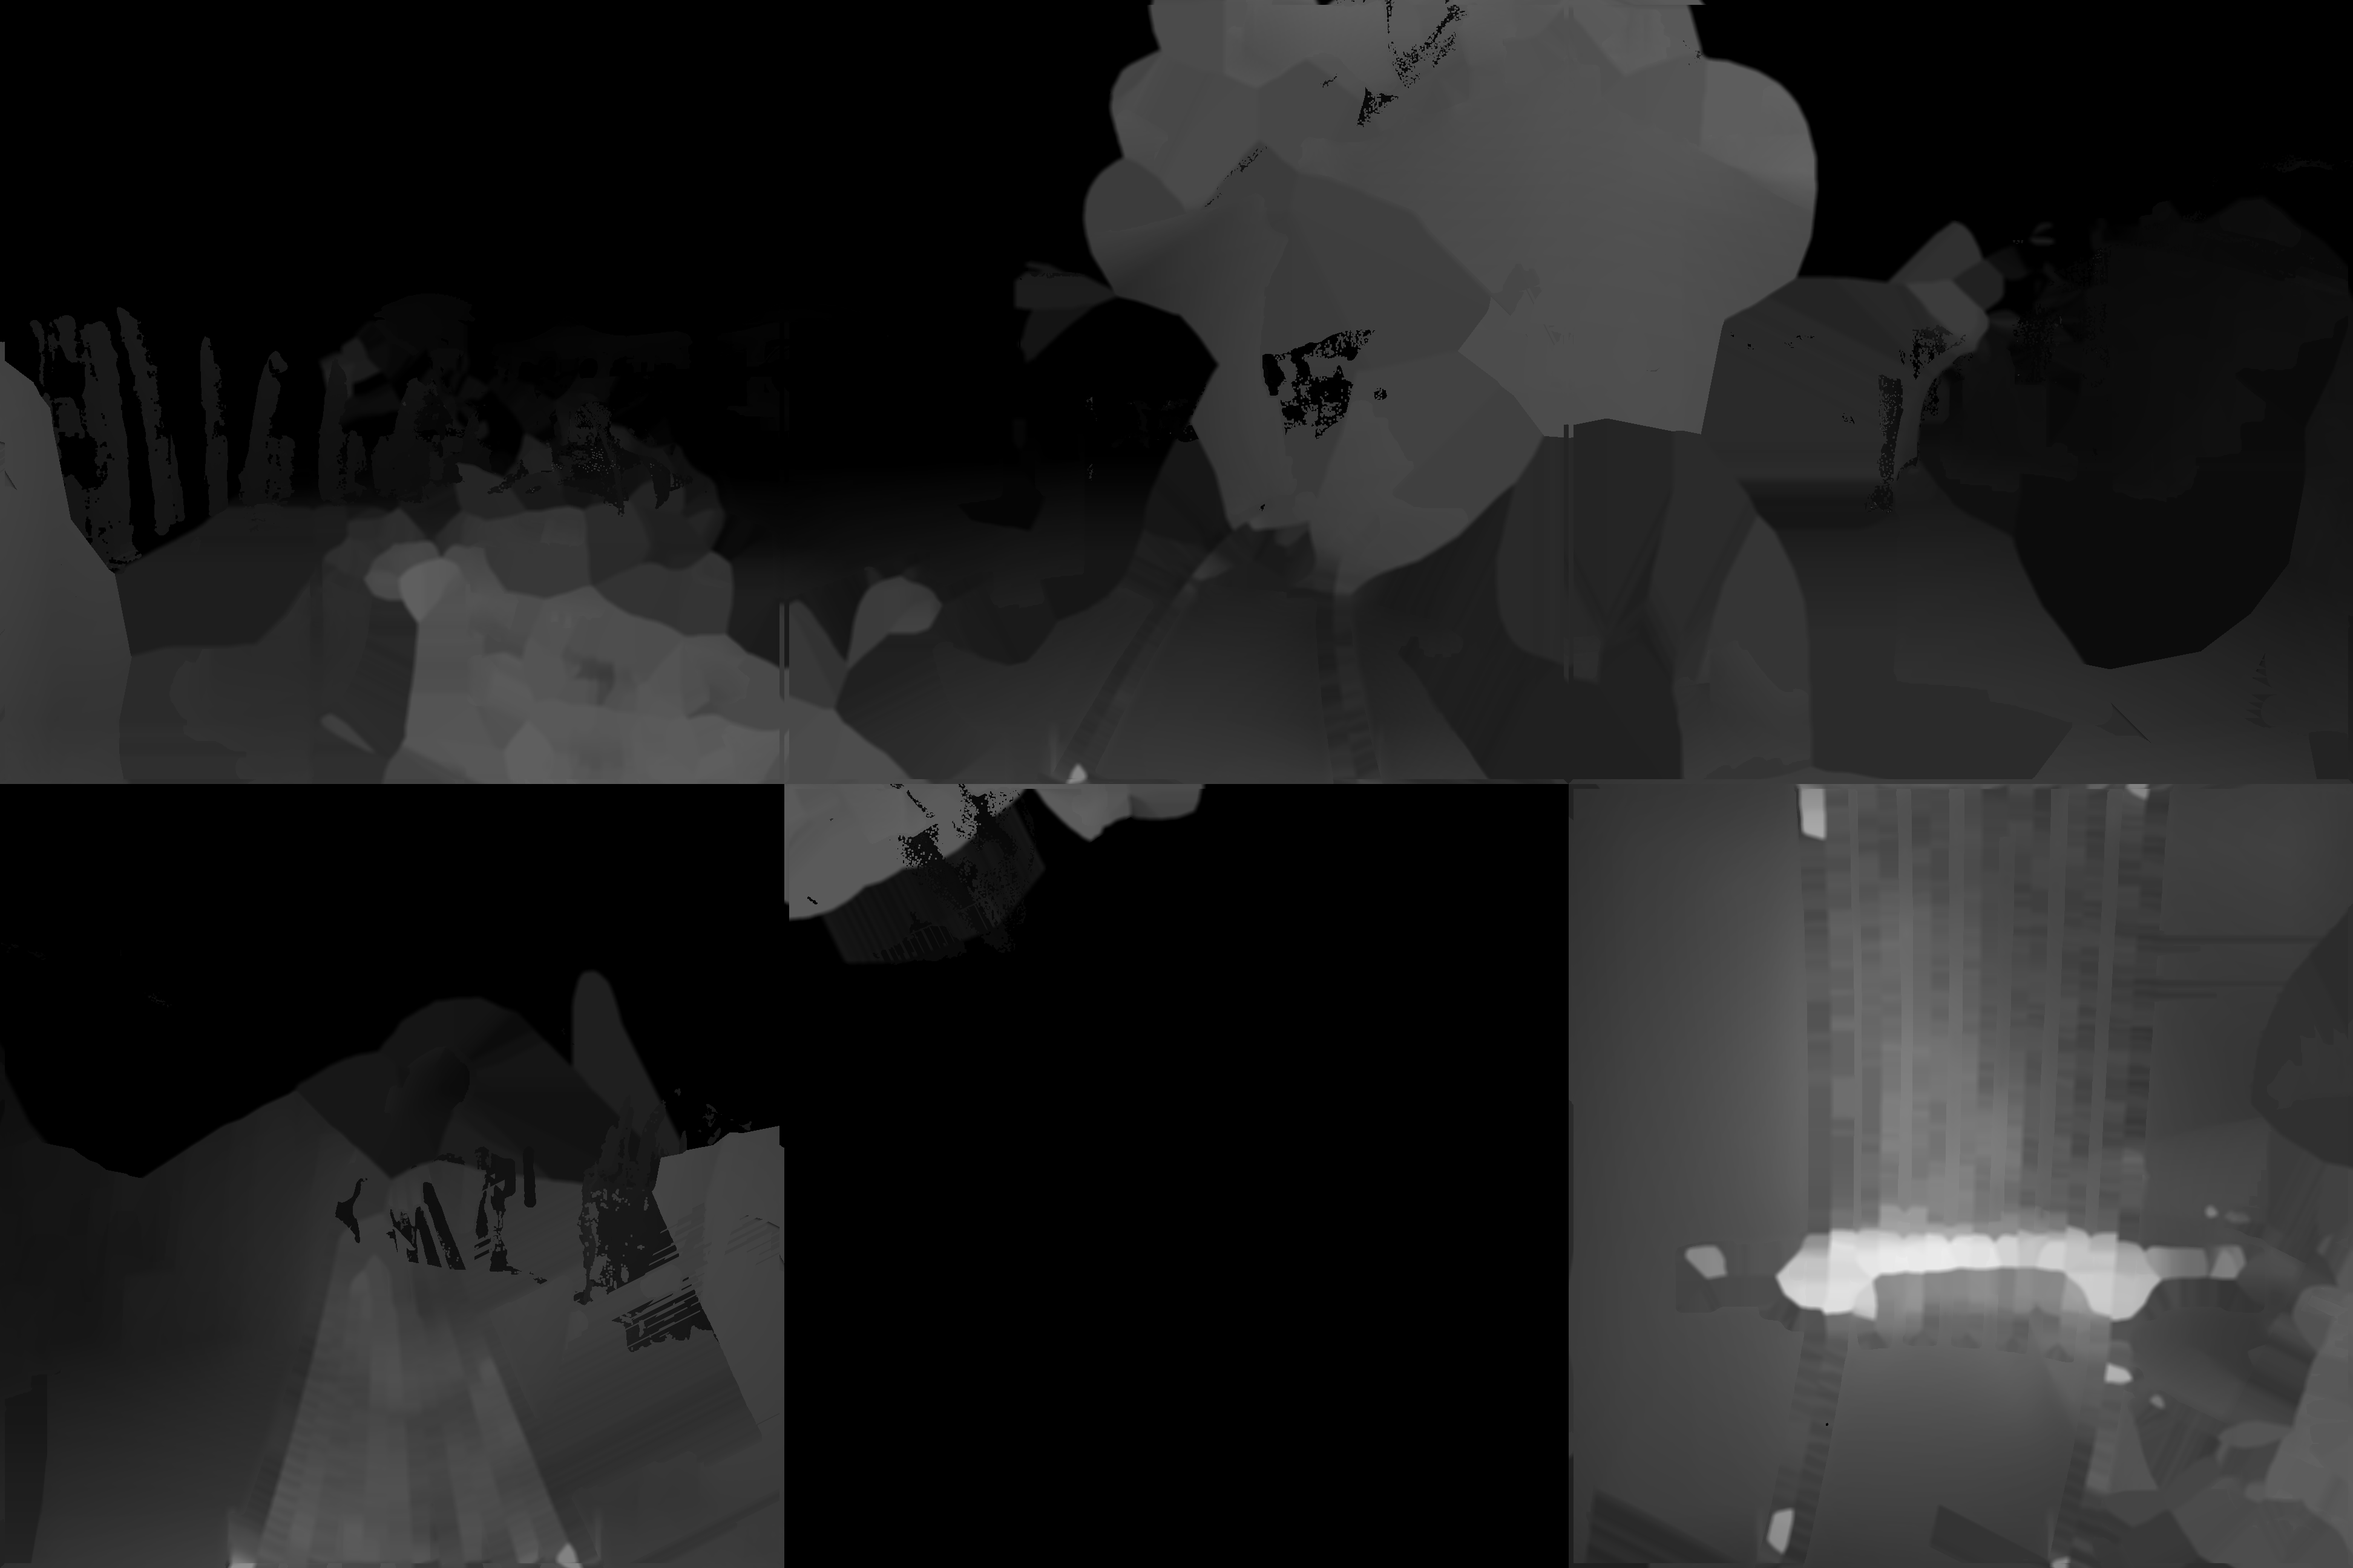
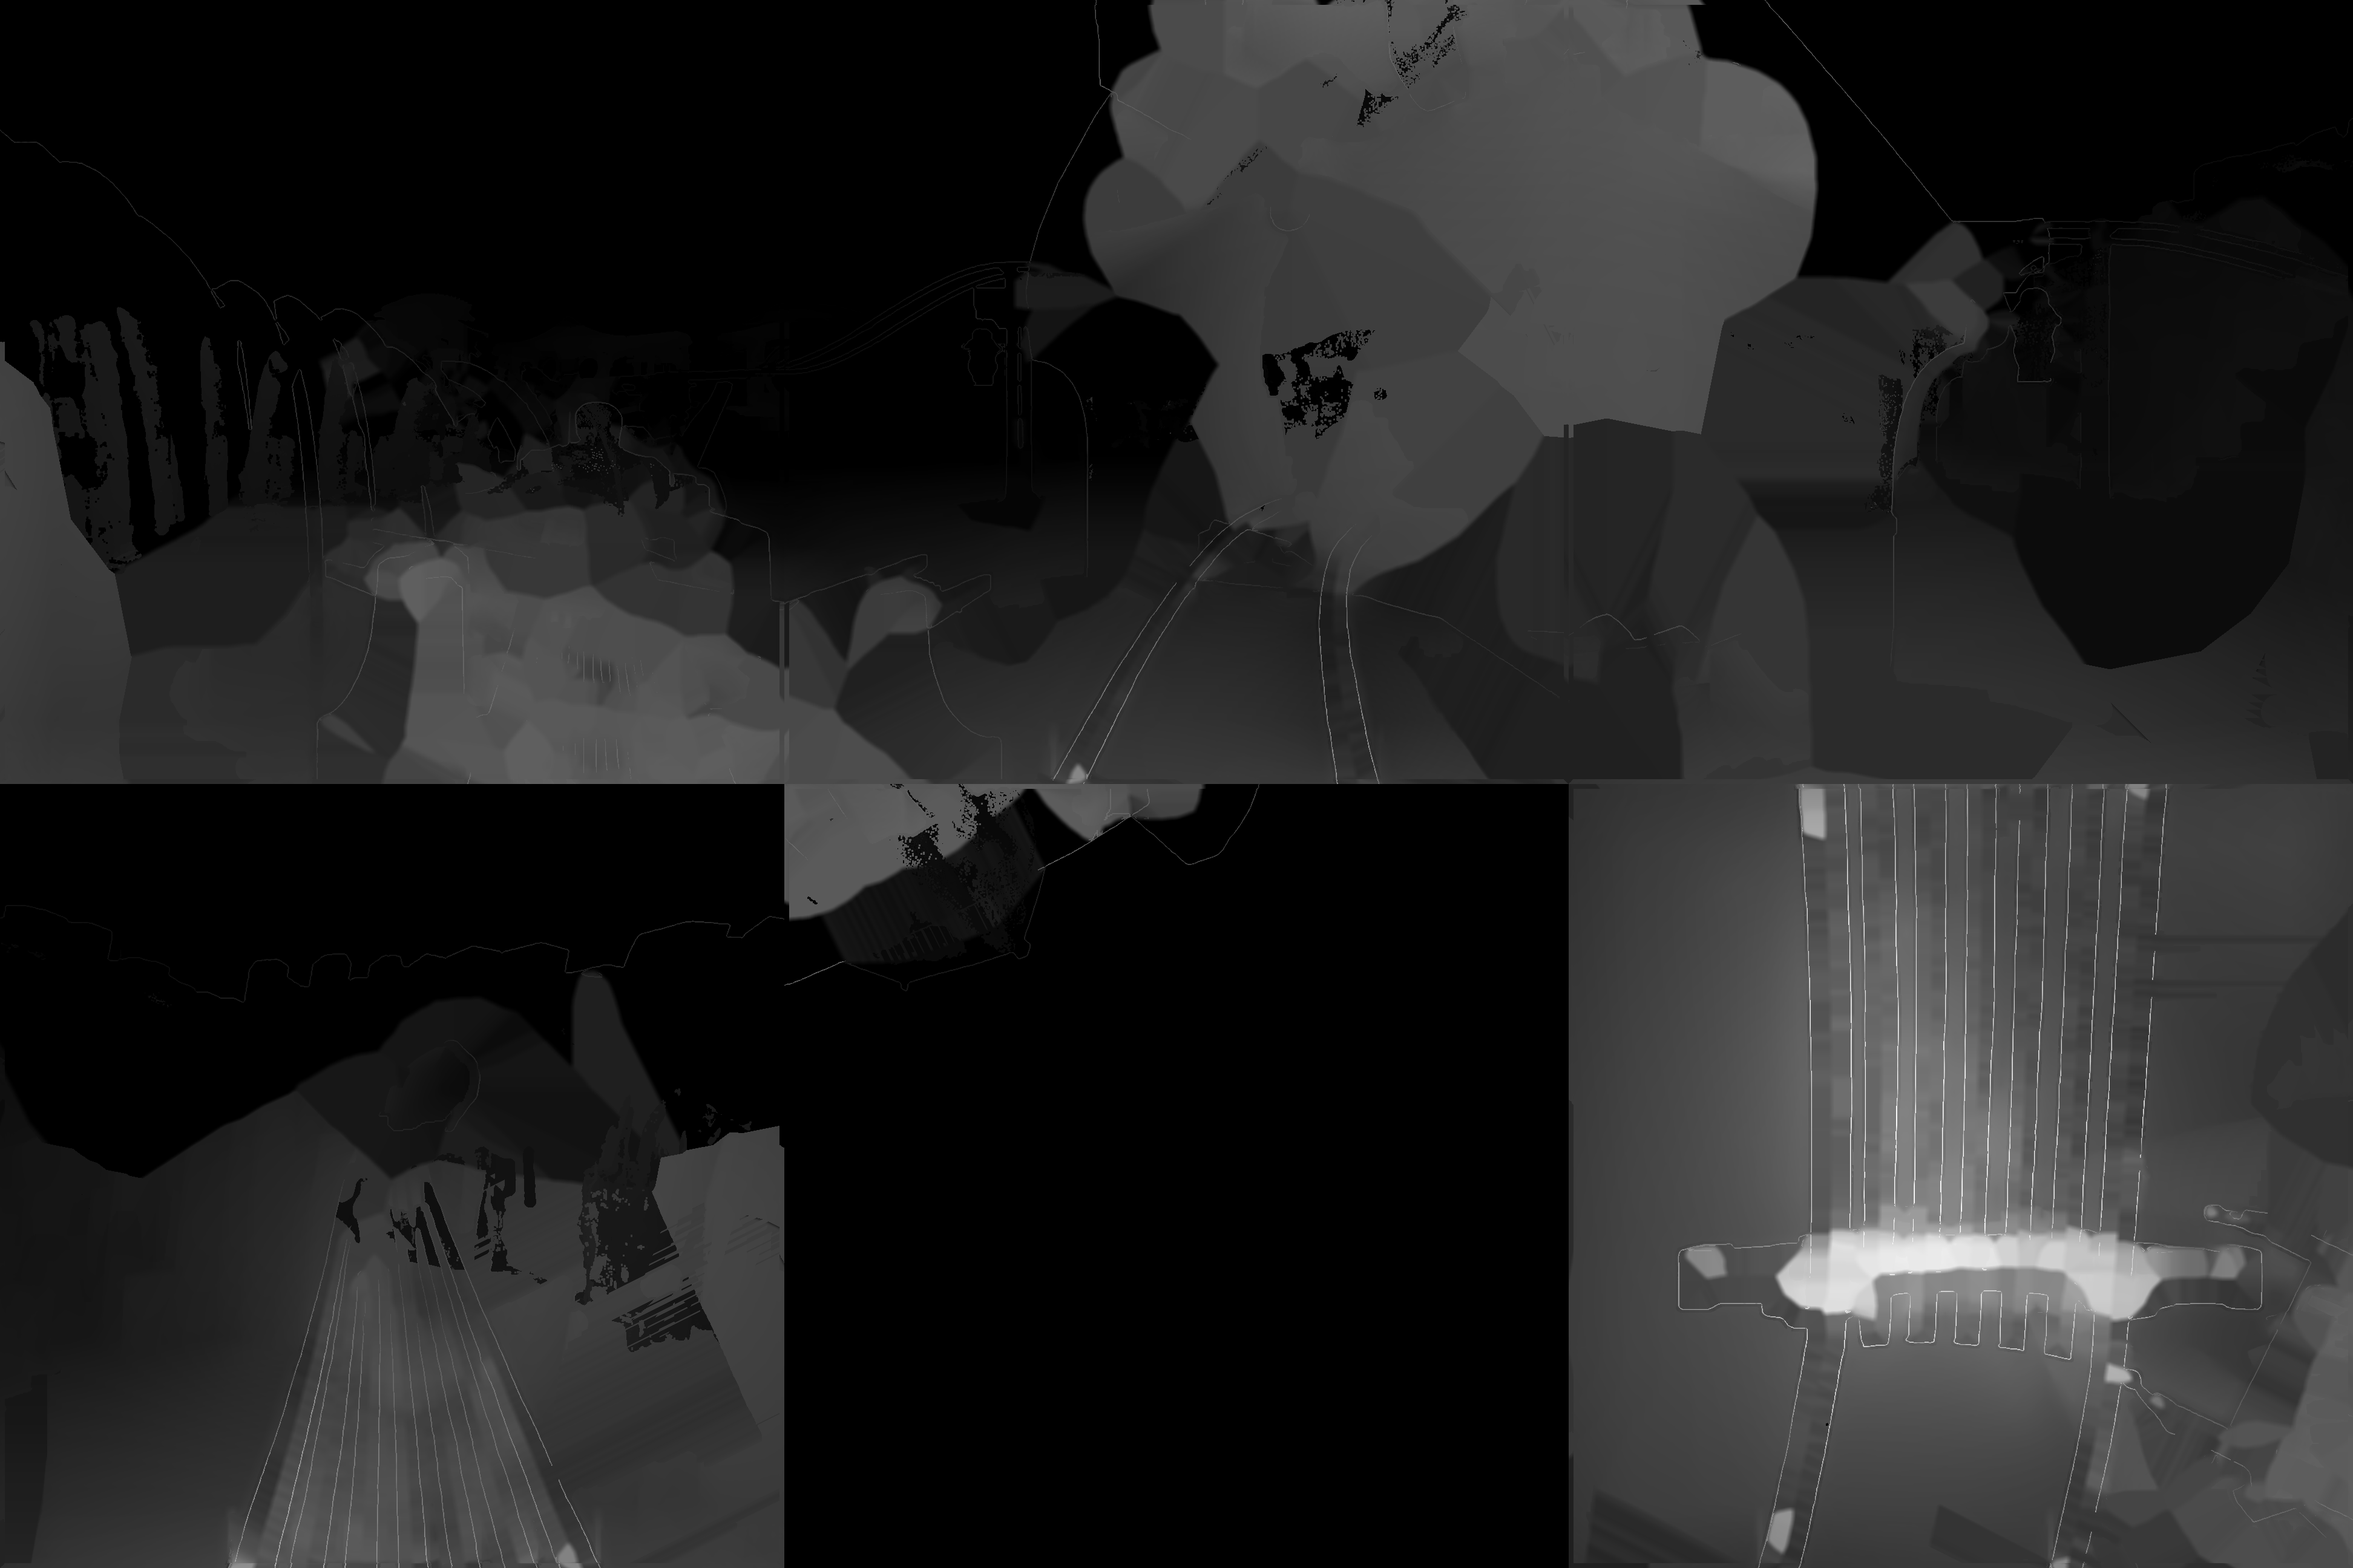
Layered: MASS 84, MAWW 101, ENSI 16 and LEIS 77 rebuilt with the third-surface backdrop
The same change as MASS 89's in 129de4d: holes are kept on a surface
between a near edge and the backdrop, and the backdrop there shows that
surface at its own depth. Also seedvr2_run.py, SeedVR2 video upscaling
through ComfyUI.

Claude-Session: https://claude.ai/code/session_01PGTZsQJKeQ77ippduWGzGV

diff --git a/cube/myst3/colmap/seedvr2_run.py b/cube/myst3/colmap/seedvr2_run.py
@@ -1,0 +1,125 @@
+#!/usr/bin/env python3
+r"""
+A video upscaled by SeedVR2 (the ComfyUI-SeedVR2_VideoUpscaler add-on)
+through a running ComfyUI.
+
+    python seedvr2_run.py IN.mp4 OUT.mp4 [--resolution 1280] [--batch 21] [--overlap 4]
+        [--model seedvr2_ema_7b_sharp_fp8_e4m3fn.safetensors] [--swap 36] [--color lab] [--every 1]
+        [--server http://127.0.0.1:8188] [--comfy-input C:\ComfyUI\input] [--comfy-output C:\ComfyUI\output]
+
+--resolution is the short edge of the result (1280 makes a 1280x640
+panorama 2560x1280). --every N takes every Nth frame first (walk_finish.py's
+64 fps clip with --every 4 is the tone-matched 16 fps clip, before FILM).
+The add-on's four nodes are found by name in the server's /object_info and
+each input set by name: the settings here where given, the node's default
+otherwise. For a 16 GB card: the DiT kept in system memory and swapped in
+block by block (--swap), the VAE tiled. Writes OUT.mp4 at the input's frame
+rate divided by --every. Standard library only.
+"""
+import argparse
+import json
+import os
+import shutil
+import subprocess
+import time
+import urllib.request
+import uuid
+
+
+def api(server, path, data=None):
+    req = urllib.request.Request(server + path, data=json.dumps(data).encode() if data is not None else None,
+                                 headers={'Content-Type': 'application/json'})
+    with urllib.request.urlopen(req, timeout=120) as r:
+        return json.loads(r.read())
+
+
+def fill(spec, given, name):
+    out = {}
+    req, opt = spec['input'].get('required', {}), spec['input'].get('optional', {})
+    for k, s in list(req.items()) + list(opt.items()):
+        if k in given:
+            out[k] = given[k]
+        elif k in req:
+            if isinstance(s, (list, tuple)) and isinstance(s[0], list):      # a choice: its first entry
+                out[k] = s[0][0]
+            elif isinstance(s, (list, tuple)) and len(s) > 1 and isinstance(s[1], dict) and 'default' in s[1]:
+                out[k] = s[1]['default']
+            elif isinstance(s, (list, tuple)) and s[0] == 'COMBO' and len(s) > 1 and s[1].get('options'):
+                out[k] = s[1].get('default', s[1]['options'][0])
+            else:
+                raise SystemExit(f'{name} needs {k} ({s}) and this script does not set it')
+    unknown = set(given) - set(out)
+    if unknown:
+        print(f'{name}: no inputs called {sorted(unknown)}; it has {list(req) + list(opt)}', flush=True)
+    return out
+
+
+def main():
+    ap = argparse.ArgumentParser(description=__doc__, formatter_class=argparse.RawDescriptionHelpFormatter)
+    ap.add_argument('video'); ap.add_argument('out')
+    ap.add_argument('--resolution', type=int, default=1280); ap.add_argument('--batch', type=int, default=21)
+    ap.add_argument('--overlap', type=int, default=4); ap.add_argument('--every', type=int, default=1)
+    ap.add_argument('--model', default='seedvr2_ema_7b_sharp_fp8_e4m3fn.safetensors')
+    ap.add_argument('--swap', type=int, default=36); ap.add_argument('--color', default='lab')
+    ap.add_argument('--seed', type=int, default=42)
+    ap.add_argument('--server', default='http://127.0.0.1:8188')
+    ap.add_argument('--comfy-input', default=r'C:\ComfyUI\input'); ap.add_argument('--comfy-output', default=r'C:\ComfyUI\output')
+    ap.add_argument('--ffmpeg', default='ffmpeg'); ap.add_argument('--timeout', type=int, default=7200)
+    a = ap.parse_args()
+    name = 'seedvr2_in.mp4'
+    src = os.path.join(a.comfy_input, name)
+    if a.every > 1:
+        subprocess.run([a.ffmpeg, '-v', 'error', '-y', '-i', a.video, '-vf', f"select='not(mod(n\\,{a.every}))',setpts=N/FRAME_RATE/TB",
+                        '-fps_mode', 'passthrough', '-c:v', 'libx264', '-crf', '10', '-pix_fmt', 'yuv420p', src], check=True)
+    else:
+        shutil.copy(a.video, src)
+    info = api(a.server, '/object_info')
+    nodes = {k: v for k, v in info.items() if 'seedvr2' in k.lower()}
+    print('SeedVR2 nodes:', {k: v.get('display_name') for k, v in nodes.items()}, flush=True)
+    pick = lambda *words: next(k for k, v in nodes.items() if all(w in (k + ' ' + str(v.get('display_name'))).lower() for w in words))
+    n_dit, n_vae, n_up = pick('dit'), pick('vae'), next(k for k in nodes if k not in (pick('dit'), pick('vae')) and 'compile' not in k.lower())
+    dit = fill(nodes[n_dit], {'model': a.model, 'device': 'cuda:0', 'offload_device': 'cpu', 'blocks_to_swap': a.swap,
+                              'swap_io_components': True, 'attention_mode': 'sdpa', 'cache_model': False}, n_dit)
+    vae = fill(nodes[n_vae], {'model': 'ema_vae_fp16.safetensors', 'device': 'cuda:0', 'offload_device': 'cpu',
+                              'encode_tiled': True, 'encode_tile_size': 1024, 'encode_tile_overlap': 128,
+                              'decode_tiled': True, 'decode_tile_size': 1024, 'decode_tile_overlap': 128, 'cache_model': False}, n_vae)
+    up = fill(nodes[n_up], {'image': ['11', 0], 'dit': ['1', 0], 'vae': ['2', 0], 'seed': a.seed, 'resolution': a.resolution,
+                            'max_resolution': 0, 'batch_size': a.batch, 'uniform_batch_size': True,
+                            'temporal_overlap': a.overlap, 'prepend_frames': 0, 'color_correction': a.color,
+                            'input_noise_scale': 0.0, 'latent_noise_scale': 0.0, 'offload_device': 'cpu',
+                            'enable_debug': False}, n_up)
+    out_idx = 0
+    g = {
+        '1': {'class_type': n_dit, 'inputs': dit},
+        '2': {'class_type': n_vae, 'inputs': vae},
+        '10': {'class_type': 'LoadVideo', 'inputs': {'file': name}},
+        '11': {'class_type': 'GetVideoComponents', 'inputs': {'video': ['10', 0]}},
+        '3': {'class_type': n_up, 'inputs': up},
+        '4': {'class_type': 'CreateVideo', 'inputs': {'images': ['3', out_idx], 'fps': ['11', 2]}},
+        '5': {'class_type': 'SaveVideo', 'inputs': {'video': ['4', 0], 'filename_prefix': 'video/seedvr2', 'format': 'auto', 'codec': 'auto'}},
+    }
+    r = api(a.server, '/prompt', {'prompt': g, 'client_id': uuid.uuid4().hex})
+    if r.get('node_errors'):
+        raise SystemExit('node errors: ' + json.dumps(r['node_errors'])[:3000])
+    pid, t0 = r['prompt_id'], time.time()
+    while True:
+        if time.time() - t0 > a.timeout:
+            api(a.server, '/interrupt', {})
+            raise SystemExit(f'timed out after {a.timeout} s')
+        h = api(a.server, f'/history/{pid}')
+        if pid in h:
+            st = h[pid].get('status', {})
+            if st.get('status_str') == 'error':
+                raise SystemExit('ComfyUI error: ' + json.dumps(st.get('messages', []))[-3000:])
+            if st.get('completed'):
+                break
+        time.sleep(10)
+    for key, items in h[pid]['outputs'].get('5', {}).items():
+        for it in items if isinstance(items, list) else []:
+            if isinstance(it, dict) and 'filename' in it:
+                shutil.copy(os.path.join(a.comfy_output, it.get('subfolder', ''), it['filename']), a.out)
+    print(f'{a.out}: done in {time.time() - t0:.0f} s', flush=True)
+
+
+if __name__ == '__main__':
+    main()
